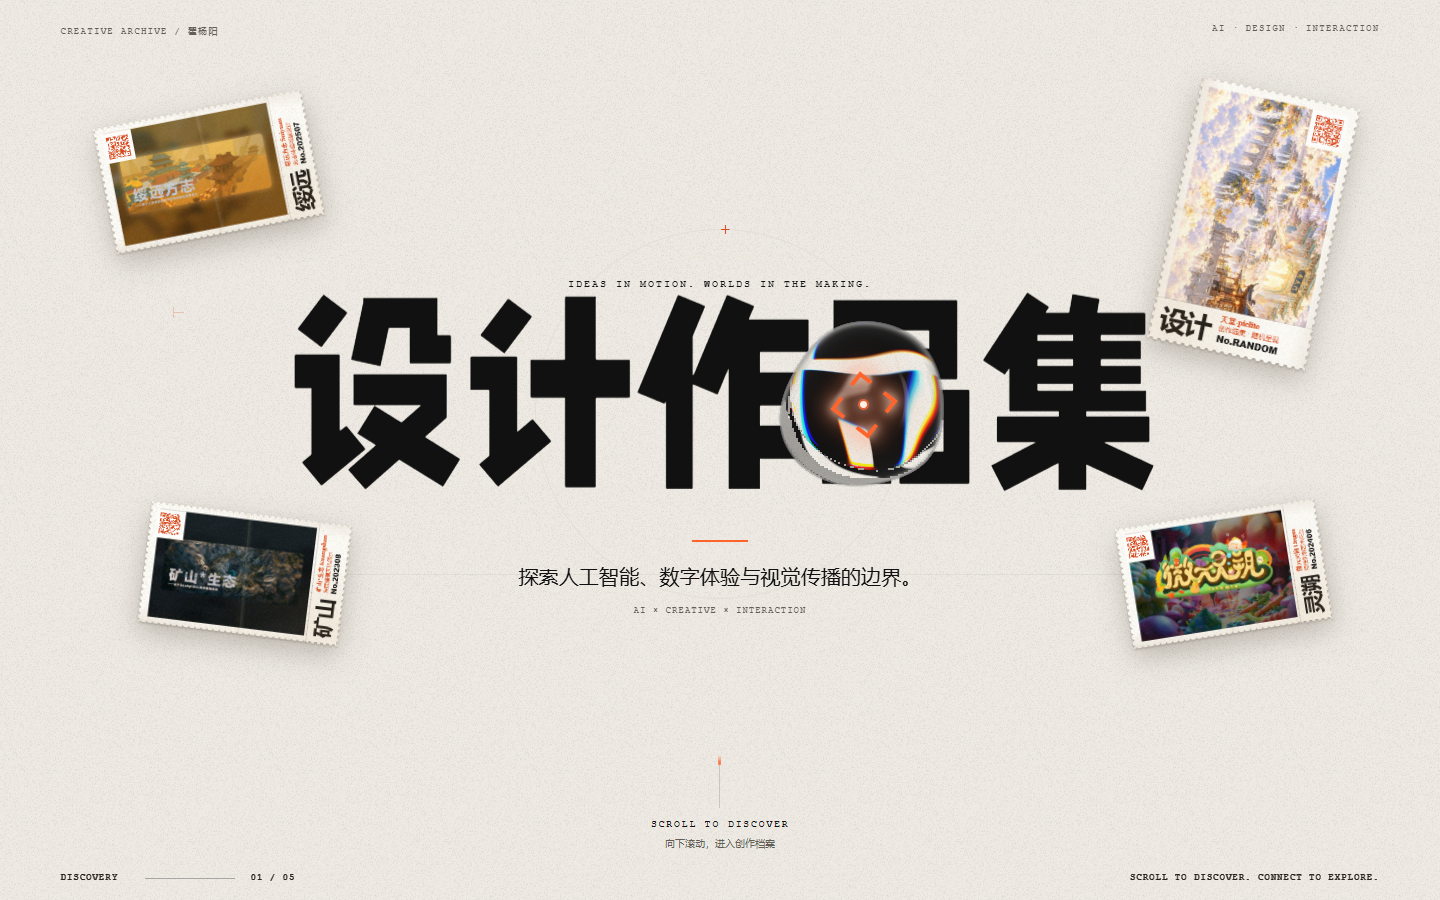
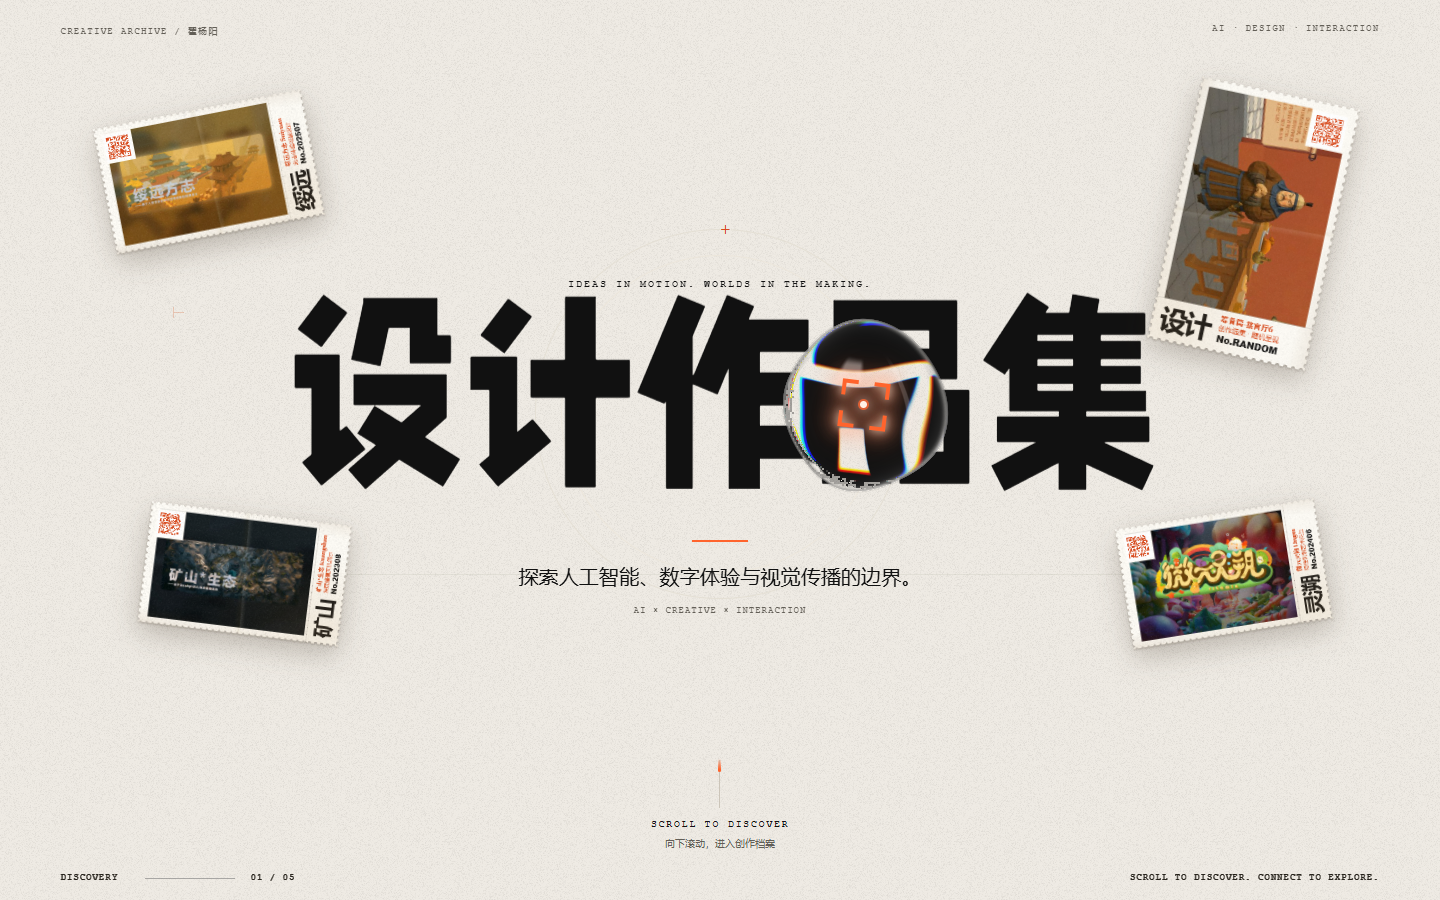
首页优化

Changed region(s): [[0.8125, 0.0933, 0.9375, 0.3733], [0.5312, 0.3422, 0.6562, 0.56]]

diff --git a/New/js/components/GlassTitle.jsx b/New/js/components/GlassTitle.jsx
@@ -6,6 +6,7 @@ import '../../css/glass-title.css';
 export function GlassTitle() {
   const host = useRef(null);
   const [ready, setReady] = useState(false);
+  const [fontLoaded, setFontLoaded] = useState(false);
   const [glass, setGlass] = useState(false);
   const [reduced, setReduced] = useState(false);
   const [size, setSize] = useState({ font:100, compact:false });
@@ -20,7 +21,7 @@ export function GlassTitle() {
   }, []);
   useEffect(() => {
     if (!ready || reduced) return;
-    const timer = setTimeout(() => setGlass(true), 1700);
+    const timer = setTimeout(() => setGlass(true), 1500);
     return () => clearTimeout(timer);
   }, [ready,reduced]);
   useEffect(() => {
@@ -29,16 +30,16 @@ export function GlassTitle() {
     const reveal = () => { if (active && fontReady && !landing?.inert) setReady(true); };
     const observer = new MutationObserver(reveal);
     if (landing) observer.observe(landing, { attributes:true, attributeFilter:['inert'] });
-    document.fonts.load('400 100px "PortfolioTitle"', '设计作品集').finally(() => { fontReady = true; reveal(); });
+    document.fonts.load('400 100px "PortfolioTitle"', '设计作品集').finally(() => { if (!active) return; fontReady = true; setFontLoaded(true); reveal(); });
     return () => { active = false; observer.disconnect(); };
   }, []);
-  return <div ref={host} className="hero-glass-title hero-fold-title"><h1 id="hero-title">
+  return <div ref={host} className="hero-glass-title hero-fold-title" data-glass-active={glass && !reduced ? 'true' : 'false'}><h1 id="hero-title">
     {ready ? <FoldText text="设计作品集" foldStyle="blinds" splitBy="char" hinge="top"
       trigger="mount" foldAngle={90} duration={1.1} stagger={.08} staggerFrom="center"
-      ease="expo.out" hoverRefold={!glass} refoldRadius={100} refoldAngle={60}
+      ease="expo.out" hoverRefold={false} refoldRadius={100} refoldAngle={60}
       perspective={500} creaseShading={.8} fontSize="inherit" fontWeight={400}/> : '设计作品集'}
   </h1>
-    {glass && !reduced && <div className="hero-glass-title__effect" aria-hidden="true"><Suspense fallback={null}>
+    {fontLoaded && !reduced && <div className="hero-glass-title__effect" aria-hidden="true"><Suspense fallback={null}>
       <FluidGlass text="设计作品集" fontFamily="PortfolioTitle, Microsoft YaHei, sans-serif"
         fontWeight={400} fontSize={size.font} textColor="#111111" shape="blob" size={size.compact?68:190}
         interaction="follow" refraction={size.compact?.25:.85} dispersion={size.compact?.18:.85} reflection={size.compact?.3:.75}

diff --git a/New/css/glass-title.css b/New/css/glass-title.css
@@ -11,7 +11,9 @@
   font-size:clamp(70px,13.4vw,243px); letter-spacing:-.03em; line-height:1;
 }
 .hero-glass-title__effect { position:absolute; inset:-110px 0; }
-.hero-glass-title:has(.fluid-glass[data-rendered='true']) h1 { opacity:0; }
+.hero-fold-title .hero-glass-title__effect { opacity:0; pointer-events:none; }
+.hero-fold-title[data-glass-active='true']:has(.fluid-glass[data-glass-ready='true']) .hero-glass-title__effect { opacity:1; }
+.hero-fold-title[data-glass-active='true']:has(.fluid-glass[data-glass-ready='true']) h1 { opacity:0; }
 .hero .hero-fold-title h1 > .fold-text {
   font: inherit;
   letter-spacing: inherit;
